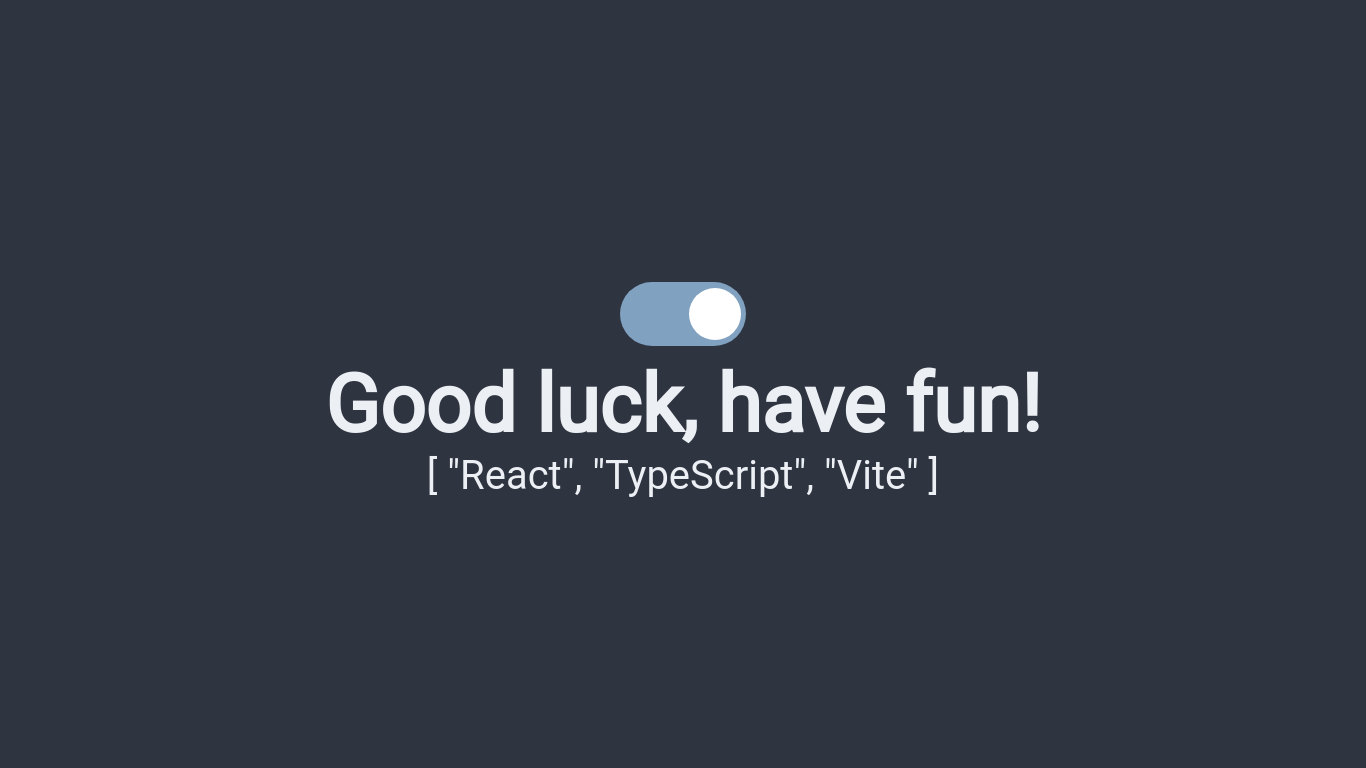
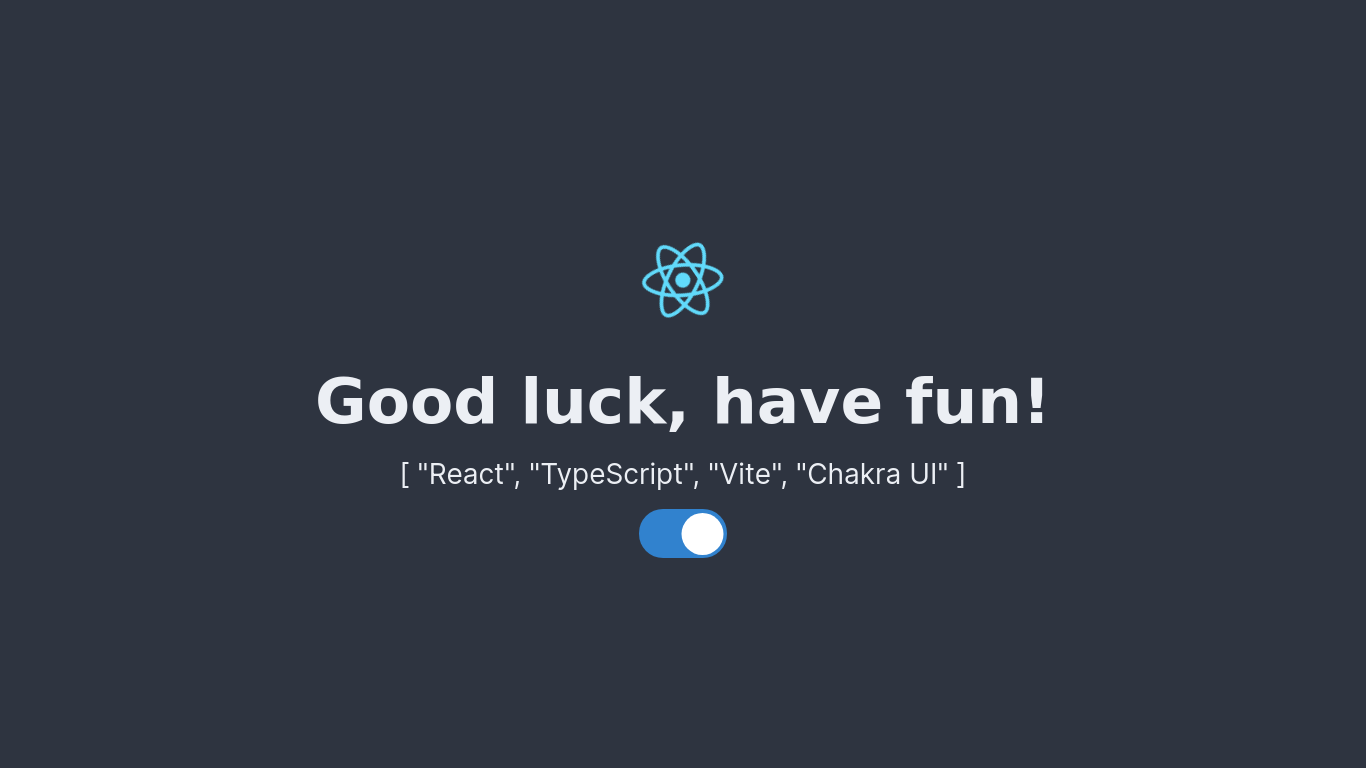
change preview

Changed region(s): [[0.2152, 0.3125, 0.7687, 0.75]]

diff --git a/src/App.tsx b/src/App.tsx
@@ -1,4 +1,4 @@
-import { Heading, Switch, VStack, Text, Box } from '@chakra-ui/react'
+import { Heading, Image, Switch, VStack, Text, Box } from '@chakra-ui/react'
 import React, { useEffect, useState } from 'react'
 
 import './App.css'
@@ -32,9 +32,10 @@ const App: React.FC = () => {
   return (
     <Box className='App'>
       <VStack h='100vh' justifyContent='center'>
-        <Switch size='lg' onChange={handleDarkMode} isChecked={darkMode} />
+				<Image className='logo' boxSize='80px' src='./src/logo.svg' alt='react'/>
         <Heading as='h1'>Good luck, have fun!</Heading>
-        <Text>[ "React", "TypeScript", "Vite" ]</Text>
+        <Text>[ "React", "TypeScript", "Vite", "Chakra UI" ]</Text>
+				<Switch size='lg' onChange={handleDarkMode} isChecked={darkMode} />
       </VStack>
     </Box>
   )

diff --git a/index.html b/index.html
@@ -1,13 +1,16 @@
 <!DOCTYPE html>
 <html lang="en">
-  <head>
-    <meta charset="UTF-8" />
-    <link rel="icon" type="image/svg+xml" href="/src/favicon.ico" />
-    <meta name="viewport" content="width=device-width, initial-scale=1.0" />
-    <title>Hai, there!</title>
-  </head>
-  <body>
-    <div id="root"></div>
-    <script type="module" src="/src/main.tsx"></script>
-  </body>
+
+<head>
+	<meta charset="UTF-8" />
+	<link rel="icon" type="image/svg+xml" href="/src/favicon.ico" />
+	<meta name="viewport" content="width=device-width, initial-scale=1.0" />
+	<title>Hai, there!</title>
+</head>
+
+<body>
+	<div id="root"></div>
+	<script type="module" src="/src/main.tsx"></script>
+</body>
+
 </html>

diff --git a/src/App.css b/src/App.css
@@ -15,14 +15,27 @@ code {
 }
 
 body {
-	background-color: #eceff4;
-	color: #2e3440;
+  background-color: #eceff4;
+  color: #2e3440;
 
-	-webkit-transition: all .3s;
-	transition: all .3s;
+  -webkit-transition: all 0.3s;
+  transition: all 0.3s;
 }
 
 .dark body {
-	background-color: #2e3440;
-	color: #eceff4;
+  background-color: #2e3440;
+  color: #eceff4;
+}
+
+.logo {
+  animation: spin 13s linear infinite;
+}
+
+@keyframes spin {
+  0% {
+    transform: rotate(0deg);
+  }
+  100% {
+    transform: rotate(360deg);
+  }
 }
